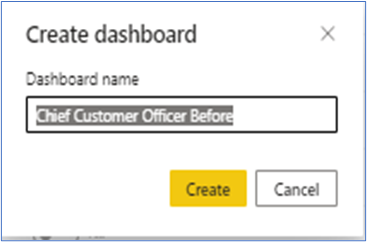
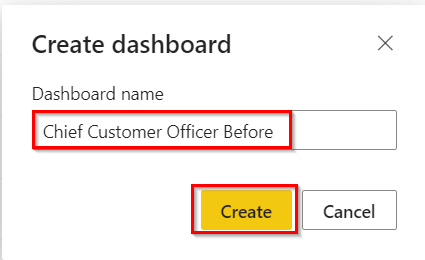
updated readme file

diff --git a/fsidemo/Readme-shell.md b/fsidemo/Readme-shell.md
@@ -450,7 +450,7 @@ cd ./fsi/fsidemo
 
 Once [Task 4](#task-4-run-the-cloud-shell-to-provision-the-demo-resources) has been completed successfully and the template has been deployed, you will be able to see a set of reports in the Reports tab of Power BI, and real-time datasets in the Dataset tab. 
 
-The image on the right shows the Reports tab in Power BI.  We can create a Power BI dashboard by pinning visuals from these reports. 
+The image below shows the Reports tab in Power BI.  We can create a Power BI dashboard by pinning visuals from these reports. 
 
 ![Screenshot to view the reports tab.](media/power-bi-report-3.png)
 
@@ -494,7 +494,7 @@ Follow these steps to create the Power BI dashboard:
 
 	![Click the dashboard.](media/power-bi-dashboard-2.png)
 
-17. **Name** the dashboard ‘Fsi Dashboard-Before’ and **click** “create”. 
+17. **Name** the dashboard ‘Chief Customer Officer Before’ and **click** “create”. 
 
 18. This new dashboard will appear in the Dashboard section (of the Power BI workspace). 
 
@@ -546,13 +546,13 @@ Do the following to pin visuals to the dashboard you just created:
 
 32. **Click** on ‘Market perception before’ page.
 
-33. **Click** on pin visual button.
+33. **Hover** over the Awareness KPI & **Click** on pin visual button.
 
 	![Click on Pin Visual button.](media/power-bi-dashboard-9.png)
 
 34. **Select** ‘Existing dashboard’ radio button. 
 
-35. From ‘select existing dashboard’ dropdown, **select** ‘Media Demo Dashboard-Before’.
+35. From ‘select existing dashboard’ dropdown, **select** ‘Chief Customer Officer Before’.
 
 36. **Click** ‘Pin’.
 
@@ -569,44 +569,48 @@ Do the following to pin visuals to the dashboard you just created:
 39. **Open** 'FSI-Chicklets' report.
 
 	![Open report.](media/power-bi-dashboard-12.png)
+	
+40.	Click on 12042021  page.
+41.	Click Edit.
+	![Open report.](media/edit-chicklet.png)
 
-40. To pin an image into Dashboard you have to go to the report, **click** on edit and then you will see the pin icon.
+42.	**Hover** on Customer retention chicklet and **click** pin button
 
 	![Pin an image.](media/report-1.png)
 
-41. **Select** the ‘Chief Customer Officer Before’ from existing dashboard list and **click** on pin.
+43. **Select** the ‘Chief Customer Officer Before’ from existing dashboard list and **click** on pin.
 
-42. Similarly pin rest of the images from chief customer officer tab of the Chicklets report.
+44. Similarly pin rest of the images from chief customer officer tab of the Chicklets report.
 
 	![Pin all image.](media/report-2.png)
 
-43. **Go back** to the ‘Chief Customer Officer Before’ dashboard.
+45. **Go back** to the ‘Chief Customer Officer Before’ dashboard.
 	
 	![Go back.](media/report-3.png)
 
 To hide title and subtitle for all the images that you have pined above. Please do the following:
 
-44. **Click** on ellipsis ‘More Options’ of the image you selected.
+46. **Click** on ellipsis ‘More Options’ of the image you selected.
 
-45. **Click** ‘Edit details’.
+47. **Click** ‘Edit details’.
 	
 	![Edit Details.](media/report-4.png)
 
-46. **Uncheck** ‘Display title and subtitle’.
+48. **Uncheck** ‘Display title and subtitle’.
 
-47. **Click** ‘Apply’.
+49. **Click** ‘Apply’.
 
-48. **Repeat** Step 46 to 48 for all image tiles.
+50. **Repeat** Step 46 to 48 for all image tiles.
 
 	![Repeat Steps.](media/report-5.png)
 
-49. After disabling ‘Display title and subtitle’ for all images, **resize** and **rearrange** the top images tiles as shown in the screenshot. Resize the Contoso Healthcare logo to 1x1 size; resize other vertical tiles to 2x1 size.  
+51. After disabling ‘Display title and subtitle’ for all images, **resize** and **rearrange** the top images tiles as shown in the screenshot. Resize the logo to 1x1 size; resize other vertical tiles to 2x1 size.  
 
 	![Resize and Rearrange.](media/report-6.png)
 
-50. Similarly pin left image tiles from ‘page 1’ of chicklets report to the Chief Customer officer Before dashboard.
+52. Similarly pin left image tiles from ‘page 1’ of chicklets report to the Chief Customer officer Before dashboard.
 
-51. **Resize** and **rearrange** the left images tiles as shown in the screenshot. Resize the KPI tile to 1x2. Resize the Deep Dive to 1x4.
+53. **Resize** and **rearrange** the left images tiles as shown in the screenshot. Resize the KPI tile to 1x2. Resize the Deep Dive to 1x4.
 
 	![Pin and Repeat.](media/report-7.png)
 
@@ -614,138 +618,146 @@ To hide title and subtitle for all the images that you have pined above. Please 
 
 	> **Note:** The cards in each Dashboard should be created in the Dashboard like ‘Negative Card’ as you can see in orange.
 
-52. To create a new tile like the car above **click** on edit button on dashboard.
+54. To create a new tile like the car above **click** on edit button on dashboard.
 
-53. **Click** on add a tile button.
+55. **Click** on add a tile button.
 
 	![Create a new tile.](media/report-9.png)
 	
-54. Then **go to** Text Box and there you can **add** the text and the text format it.
-	
+56.	**Select** Text Box.
+57.	**Click** next.
+
 	![Add text.](media/report-10.png)
+	
+58.	**Enter** title of the card.
+59.	**Select** Segoe UI font style.
+60.	**Select** appropriate font size and color for the card.
+61.	**Enter** the text content of card.
+62.	**Click** apply.
+	![Add text.](media/report-cardpinning.png)
 
-55. **Refer** to the screenshot of the sample dashboard and pin the visuals to replicate its look and feel. 
+63. **Refer** to the screenshot of the sample dashboard and pin the visuals to replicate its look and feel. 
 
-56. **Latest** pillar ‘Chief Customer Officer Before’ is completed.
+64. **Latest** pillar ‘Chief Customer Officer Before’ is completed.
 
 	![Pin the visuals.](media/report-11.png)
 
-57. You will see some KPIs or charts like this KPI with title and subtitle. 1. Title, 2. Subtitle.
+65. You will see some KPIs or charts like this KPI with title and subtitle. 1. Title, 2. Subtitle.
 
 	![KPIs.](media/report-12.png)
 
-58. **Go** to the cards more options.
+66. **Go** to the cards more options.
 
-59. **Click** on Edit Details.
+67. **Click** on Edit Details.
 
 	![Cards more options.](media/report-13.png)
 
-60. You will see something like this picture where you can add subtitle.
+68. You will see something like this picture where you can add subtitle.
 	
 	![Add subtitle.](media/report-14.png)
 
-61. The Dashboard “Chief Customer Officer Before” should finally look like this.
+69. The Dashboard “Chief Customer Officer Before” should finally look like this.
 Table in following row indicates which Kpi’s need to be pinned from which report to achieve this final look.
 	
 ![Final look.](media/report-15.png)
 	
-62. **Refer** to this table while pinning rest of the tiles to the dashboard.
+70. **Refer** to this table while pinning rest of the tiles to the dashboard.
 	
 	![Refer the table.](media/report-16.png)
 
-63. Here is the list of Dashboards you have to create for FSI. You will see the necessary details for the same below.
+71. Here is the list of Dashboards you have to create for FSI. You will see the necessary details for the same below.
 
 	![List of Dashboards.](media/report-17.png)
 
-64. Chief Customer Officer After Dashboard should look like this. Following are the details of tiles for the same.
+72. Chief Customer Officer After Dashboard should look like this. Following are the details of tiles for the same.
 
 	![Chief Customer Officer.](media/report-18.png)
 
-65. Chief Customer Officer After KPIs.
+73. Chief Customer Officer After KPIs.
 
 	![Chief Customer Officer After KPIs.](media/report-19.png)
 
-66. ESG Dashboard Dashboard should look like this. Following are the details of tiles for the same.
+74. ESG Dashboard Dashboard should look like this. Following are the details of tiles for the same.
 
 	![ESG Dashboard Dashboard.](media/report-20.png)
 
-67. ESG Dashboard KPIs
+75. ESG Dashboard KPIs
 
 	![ESG Dashboard KPIs.](media/report-21.png)
 
-68. Finance Dashboard should look like this. Following are the details of tiles for the same.
+76. Finance Dashboard should look like this. Following are the details of tiles for the same.
 
 	![Finance Dashboard.](media/report-22.png)
 
-69. Finance Dashboard KPIs
+77. Finance Dashboard KPIs
 
 	![Finance Dashboard KPIs.](media/report-23.png)
 
-70. Group Chief Risk Officer After Dashboard
+78. Group Chief Risk Officer After Dashboard
 
 	![Group Chief Risk Officer.](media/report-24.png)
 
-71. Group Chief Risk Officer After Dashboard KPIs
+79. Group Chief Risk Officer After Dashboard KPIs
 
 	![Group Chief Risk Officer After Dashboard KPIs.](media/report-25.png)
 
-72. Group Chief Risk Officer Before Dashboard
+80. Group Chief Risk Officer Before Dashboard
 
 	![Group Chief Risk Officer.](media/report-26.png)
 
-73. Group Chief Risk Officer Before KPIs
+81. Group Chief Risk Officer Before KPIs
 
 	![Group Chief Risk Officer Before KPIs.](media/report-27.png)
 
-74. Head of Financial Intelligence After Dashboard
+82. Head of Financial Intelligence After Dashboard
 
 	![Head of Financial Intelligence.](media/report-28.png)
 
-75. Head of Financial Intelligence After KPI
+83. Head of Financial Intelligence After KPI
 
 	![Head of Financial Intelligence After KPI.](media/report-29.png)
 
-76. Head of Financial Intelligence Before Dashboard
+84. Head of Financial Intelligence Before Dashboard
 
 	![Head of Financial Intelligence.](media/report-30.png)
 
-77. Head of Financial Intelligence Before KPIs
+85. Head of Financial Intelligence Before KPIs
 
 	![Head of Financial Intelligence Before KPIs.](media/report-31.png)
 
-78. Woodgrove Executive Dashboard Dec
+86. Woodgrove Executive Dashboard Dec
 
 	![Woodgrove Executive Dashboard Dec.](media/report-32.png)
 
-79. Woodgrove Executive Dashboard Dec KPIs
+87. Woodgrove Executive Dashboard Dec KPIs
 
 	![Woodgrove Executive Dashboard Dec KPIs.](media/report-33.png)
 
-80. Woodgrove Executive Dashboard June
+88. Woodgrove Executive Dashboard June
 
 	![Woodgrove Executive Dashboard June.](media/report-34.png)
 
-81. Woodgrove Executive Dashboard June KPIs
+89. Woodgrove Executive Dashboard June KPIs
 
 	![Woodgrove Executive Dashboard June KPIs.](media/report-35.png)
 
-82. Woodgrove Executive Dashboard March KPIs
+90. Woodgrove Executive Dashboard March KPIs
 
 	![Woodgrove Executive Dashboard March KPIs.](media/report-36.png)
 
-83. Woodgrove Executive Dashboard September
+91. Woodgrove Executive Dashboard September
 
 	![Woodgrove Executive Dashboard September.](media/report-37.png)
 
-84. Woodgrove Executive Dashboard September KPIs
+92. Woodgrove Executive Dashboard September KPIs
 
 	![Woodgrove Executive Dashboard September KPIs.](media/report-38.png)
 
-85. Woodgrove Executive Dashboard September 2
+93. Woodgrove Executive Dashboard September 2
 
 	![Woodgrove Executive Dashboard September 2.](media/report-39.png)
 
-86. Dashboard KPI’s.
+94. Dashboard KPI’s.
 
 	![Dashboard KPI’s.](media/report-40.png)
 
@@ -897,32 +909,34 @@ By default, the web app will be provisioned with Gif placeholders for web app sc
 
 4. **Login** with the same user that you used for signing into the Azure Portal in [Task 1](#task-1-create-a-resource-group-in-azure).
 
-5. **Open** Compute section and enter compute name, **select** “ STANDARD_DS2_V2” as compute quota and **click** on create.
+5. **Click** on compute button in left pane.
+
+6. **Click** on new.
+
+	![compute button](media/aml-computebutton)
+
+7. **Enter** compute name, **select** “ STANDARD_DS2_V2” as compute quota and **click** on create.
 
 	![Compute section and enter compute name.](media/aml-3.png)
 
 > **Note:**  It will take few minutes to create a compute instance.
 
-6. **Open** Notebooks.
+8. **Open** Notebooks.
 
-7. **Click** on “ 8. Understanding and Removing Biases from Machine Learning Models using Azure Fairlearn” notebook.
+9. **Click** on “ 8. Understanding and Removing Biases from Machine Learning Models using Azure Fairlearn” notebook.
 
 	![Open Notebooks.](media/aml-4.png)
 
-8. **Select** Compute created in step 5 and kernel as shown in image.
+10. **Select** Compute created in step 5 and kernel as shown in image.
 
-9. **Click** run all.
+11. **Click** run all. Wait for all cells to complete execution.
 	
 	![Select Compute created.](media/aml-5.png)
 
-10. **Scroll** through the notebook cells, at cell 16 execution it will ask to do device login. Follow the steps with same user.
 
-	![Scroll through the notebook.](media/aml-6.png)
+12. **Scroll** down till the end and wait for the green tick.
 
-
-11. **Scroll** down till the end and wait for the green tick.
-
-12. **Open** Experiments and see if experiments are created.
+13. **Open** Experiments and verify if experiments are created.
 
 	![Scroll and Open.](media/aml-7.png)
 
